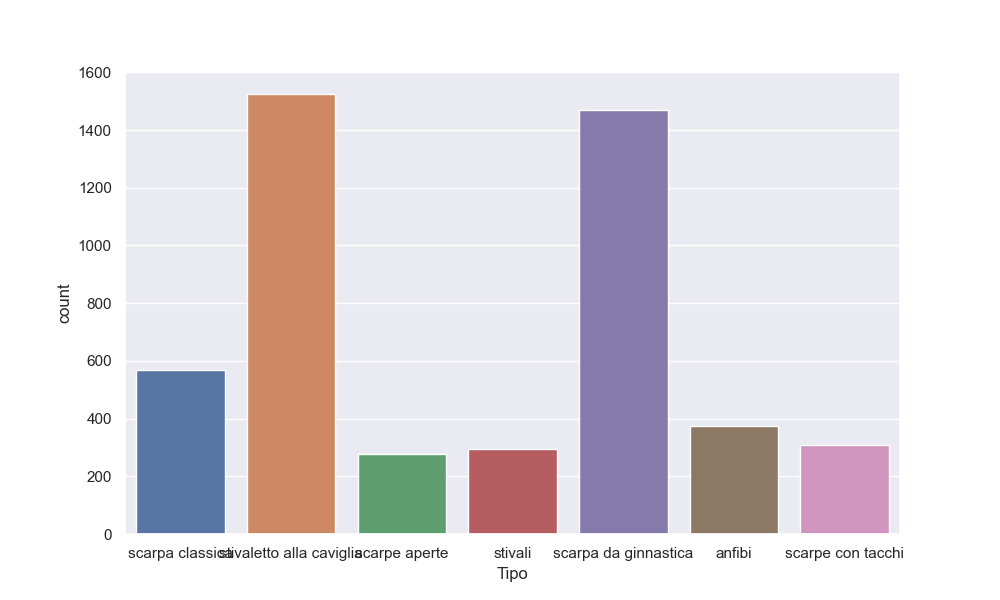
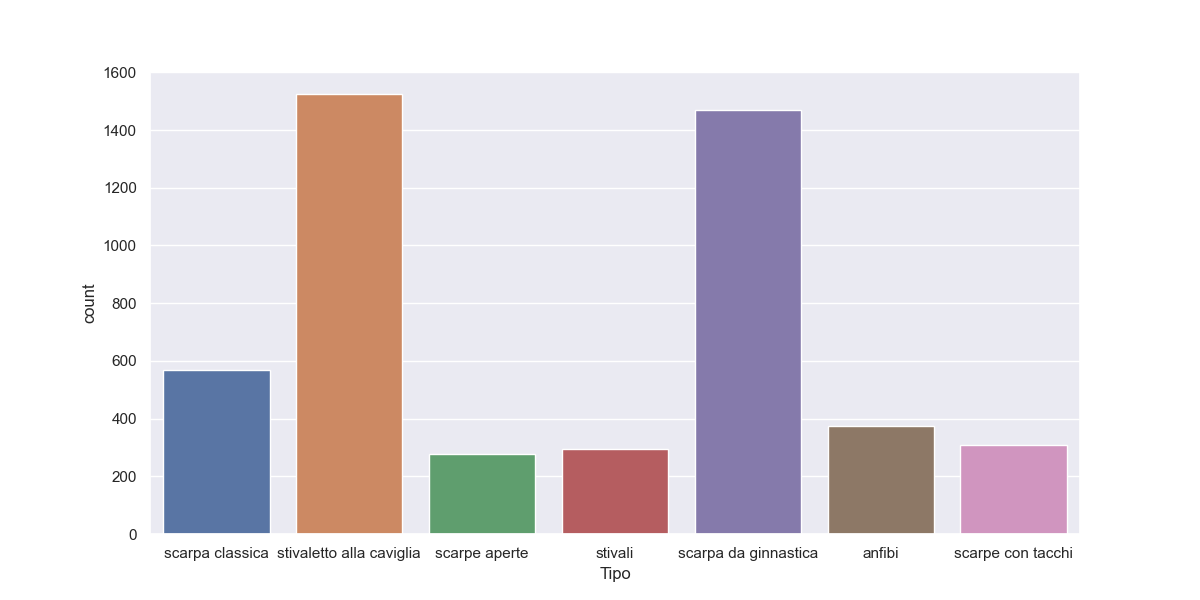
Aggiunto paragrafo premessa e modificato i relativi collegamenti. Aggiornati grafici scarpe

diff --git a/Documents/documentazione.tex b/Documents/documentazione.tex
@@ -71,19 +71,22 @@
                 \item \textbf{P (Performance)}: è la misura di prestazione adottata per valutare l'operato di un agente.
                 Nel caso di WeatherStyle, la misura di prestazione è data dal consigliare in maniera adeguata i vari capi
                 d'abbigliamento.
-                \item \textbf{E (Environment)}: è la descrizione degli elementi che formano l'ambiente. Nel nostro
+                \item \textbf{E (Environment)}: è la descrizione degli elementi che formano l'ambiente.Nel nostro
                 sistema, l'ambiente è costituito dal guardaroba dell'utente e dalle previsioni meteorologiche.
                 \item \textbf{A (Actuators)}: servono all'agente per poter compiere delle azioni. L'agente di WeatherStyle
                 si serve di uno schermo per mostrare agli utenti i capi d'abbigliamento che ritiene più adeguati.
                 \item \textbf{S (Sensors)}: sono i sensori attraverso i quali l'agente riceve gli input dall'esterno.
-                \\ I sensori a sua disposizione sono la tastiera per poter inserire le informazioni meteorologiche e la
-                data della previsione, e infine il contenuto di un file per recuperare il guardaroba di un utente.
+                \\ I sensori a sua disposizione sono una sorgente da cui ottenere informazioni meteorologiche\footnote{Nel driver sviluppato per testare il modello, tale sensore è sostituito dalla tastiera,
+                    è l'utente che deve specificare le condizioni meteo e la data in cui il consiglio viene fornito}
+                    e un database da cui ottenere i capi d'abbigliamento dell'utente\footnote{Il driver realizzato non fa uso del database.
+                Viene utilizzato un File per caricare dei capi d'esempio su cui poter effettuare dei test.
+                Inoltre, è possibile aggiungere altri capi che saranno salvati nella sessione del browser utilizzato per il testing (Una volta chiuso dovranno essere ricaricati).}.
             \end{itemize}
 
 
             \subsection{Caratteristiche dell'ambiente}
                 \begin{itemize}
-                    \item \textbf{Tipo di ambiente:} guardaroba con informazioni meteorologiche.
+                    \item \textbf{Tipo di ambiente:} suggeritore di capi d'abbigliamento adatti al meteo.
                     \item \textbf{Completamente osservabile:} l'agente attraverso i sensori conosce lo stato
                     completo dell'ambiente in ogni momento, ovvero, ha visione completa dei capi d'abbigliamento presenti
                     nel guardaroba dell'utente e delle informazioni meteorologiche.
@@ -96,9 +99,21 @@
                     \item \textbf{Singolo agente:} l'ambiente consente la presenza di un singolo agente.
                 \end{itemize}
                 \bigskip
-                \par \noindent Nei capitoli successivi vedremo due tipi di agenti che agiranno singolarmente ma con uno stesso
-                scopo comune, ovvero vedremo prima un \textbf{agente basato su utilità} in grado di quantificare la desiderabilità
-                degli stati raggiunti, e poi a seguire un \textbf{agente capace di apprendere}.
+                \par \noindent Nei capitoli successivi vengono proposti due tipi di agenti che possono essere una soluzione per il problema illustrato:
+                 un \textbf{agente basato su utilità} in grado di quantificare la desiderabilità
+                degli stati raggiunti e un \textbf{agente capace di apprendere}.
+    \section{Un'importante premessa}
+    \label{sec:premessa}
+    Il problema, nella sua formulazione completa, richiede di fornire all'utente un outfit che sia adatto
+    alle condizioni climatiche.\\
+    Tale formulazione, contiene in sè una serie di sotto-problemi non di poco conto in particolare oltre
+    a valutare che i capi siano adatti alle condizione meteorologiche, bisogna anche considerare quanto si abbinano bene
+    tra loro sotto diversi aspetti come stile, colore ecc\ldots\\
+    In buona sostanza, una formulazione del genere fa esplodere la complessità del problema in quanto considera troppi dettagli.\\
+    Si è deciso quindi di formulare diversamente il problema tralasciando l'aspetto stilistico che viene lasciato all'utente.\\
+    Nello specifico, sono state considerate tre categorie di capi d'abbigliamento (maglie, pantaloni e scarpe) e per ognuna di queste verrà realizzato
+    un agente intelligente in grado di fornire i tre capi migliori rispetto alle condizioni meteo.
+    Nella versione finale dell'applicativo l'utente potrà scegliere un capo per ogni categoria e costruire l'outfit che più gli piace\footnote{Nel driver realizzato, è possibile solo visualizzare i tre capi d'abbigliamento consigliati per ogni categoria}.
 
     \part{Tecniche di risoluzione}
         \chapter{La ricerca locale}
@@ -144,17 +159,16 @@
             \newpage
             \section{Formulazione del problema}
             Il primo quesito da porsi nel momento in cui si ha a che fare con un algoritmo genetico è: \textbf{come vengono
-            codificati gli individui?} Nel nostro caso, l'algoritmo dovrà scegliere solamente tre dai capi che si ritengono
-            più adeguati; per questo motivo, la codifica degli individui consiste in un array di tre interi. Questi valori
-            rappresenteranno la posizione dei capi d'abbigliamento nell'intera lista di maglie, pantaloni e scarpe
-            presenti nel guardaroba\footnote{è bene chiarire che gli agenti saranno tre e ognuno lavorerà su una singola
-            istanza del problema, ossia maglie, pantaloni e scarpe, poiché risolvere il tutto con un solo agente sarebbe
-            risultato difficile: ci avrebbe portato a considerare altri aspetti, come la combinazione
-            cromatica che non rientra tra i nostri obiettivi.}.
+            codificati gli individui?} Nel nostro caso, come illustrato alla sezione \ref{sec:premessa}, l'algoritmo dovrà
+            scegliere solamente tre dai capi che si ritengono più adeguati;
+            per questo motivo, la codifica degli individui consiste in un array di tre interi.
+            Questi valori rappresenteranno la posizione dei capi d'abbigliamento nell'intera lista di maglie, pantaloni
+            e scarpe presenti nel guardaroba
             \\
             \par \noindent Dopo aver definito come gli individui devono essere codificati, si passa ad analizzare i \textbf{vincoli} a
-            cui essi sono sottoposti. In questo caso, l'unico vincolo è che, all'interno dell'array, non si ripeta un intero
-            più di una volta, cioè che i capi siano tutti diversi tra loro.
+            cui essi sono sottoposti.
+            In questo caso, l'unico vincolo è che, all'interno dell'array, non si ripeta un intero più di una volta,
+            cioè che i capi siano tutti diversi tra loro.
             \\
             \par \noindent La prima parte di un GA consiste nell'inizializzazione di una popolazione. Inizialmente la soluzione
             verteva verso un'inizializzazione casuale ma, dopo aver constatato che la popolazione non rispettava il vincolo richiesto,
@@ -182,7 +196,9 @@
                 pantaloni, che per scarpe, viene dato il massimo del punteggio se la stagione in cui viene richiesto l'intervento dell'agente coincide
                 con quella indicata per quel determinato capo d'abbigliamento.
                 \item \textbf{Tipo di scarpe:} in base alle previsioni meteo e al tipo di scarpe, viene assegnato un determinato punteggio.
-                Ad esempio, in caso di neve, vengono preferiti gli stivali alle classiche scarpe di ginnastica.
+                Ad esempio, in caso di neve, vengono preferiti gli stivali alle classiche scarpe di ginnastica.\footnote{Tale valutazione,
+                    non viene effettuata in caso in cui la temperatura sia inferiore ai 20 gradi in quanto e il meteo è soleggiato,
+                    in quanto, a seguito di test empirici, si è visto che visto che tale condizione portava l'agente ad avere un comportamento errato: consigliava scarpe estive anche se non erano adatte}
                 \item \textbf{Antisivolo e/o impermeabile:} per le scarpe viene incrementato il
                 punteggio secondo le previsioni, se queste dichiarano pioggia, assegnando punti ``bonus'' se la
                 scarpa è antiscivolo e/o impermeabile.
@@ -210,7 +226,7 @@
             ad ogni tipologia di capo d'abbigliamento, che siano essi scarpe, pantaloni o maglie. Il nostro obbiettivo,
             chiaramente, è quello di massimizzare questa funzione:
             \[
-                \frac{\sum_{n=1}^{3} u_{n}}{3}
+                f((x_{1},x_{2},x_{3}))=\frac{\sum_{n=1}^{3} u(x_{n})}{3}
             \]
             \\
             \par \noindent Per quel che riguarda la scelta degli \textbf{operatori genetici} si è optato per:
@@ -219,13 +235,13 @@
                 \item \textbf{MultiPointCrossover}
                 \item \textbf{GaussianMutator}
             \end{itemize}
-            Si rimanda alla sezione 2.3.4 per ulteriori dettagli su questi operatori.
+            Si rimanda alla sezione \ref{subsec:op_gen} per ulteriori dettagli su questi operatori.
 
             \newpage
             \section{Implementazione}
             Per l'implementazione della soluzione basata su algoritmo genetico è stato utilizzato il framework
             \textbf{Jenetics} \cite{1}. In questa sezione, tratteremo l'istanza generale per la costruzione dell'algoritmo
-            genetico. Come già discusso nella sezione 2.2, gli agenti saranno tre, e ognuno lavorerà su una singola istanza
+            genetico. Come già discusso nella sezione \ref{sec:premessa}, gli agenti saranno tre, e ognuno lavorerà su una singola istanza
             del problema, ovvero maglie, pantaloni e scarpe, differenziandosi per i calcoli effettuati dalla funzione di
             fitness.
                 \subsection{Codifica degli individui}
@@ -270,7 +286,7 @@
                 corrisponderanno alle posizioni dei capi d'abbigliamento in una lista, calcoleremo il punteggio per ognuno,
                 faremo una media e restituiremo il risultato.
 
-                \subsection{Operatori genetici}
+                \subsection{Operatori genetici}\label{subsec:op_gen}
                 Per la risoluzione del problema sono stati scelti i seguenti operatori genetici:
                 \begin{itemize}
                     \item \textbf{RouletteWheelSelector:} operatore di selezione; gli individui ricevono una probabilità
@@ -314,8 +330,8 @@
             \par \noindent Uno dei principali problemi affrontati è stato sulla generazione della \textbf{popolazione iniziale}.
             In genere, la prima popolazione viene generata in maniera totalmente casuale, quindi non è detto che
             tali individui rispettino il vincolo imposto (i tre elementi devono essere diversi).\\
-            Il problema è stato risolto andando ad impostare una generazione pseudo casuale che permette
-            di avere anche nella prima generazione degli elementi ammissibili e, di conseguenza,
+            Come illustrato nei paragrafi precedenti, il problema è stato risolto andando ad impostare una generazione
+            pseudo casuale che permette di avere anche nella prima generazione degli elementi ammissibili e, di conseguenza,
             la ricerca viene guidata verso soluzioni ammissibili e migliori riducendo il carico computazionale.\\
             A valle di test empirici, possiamo dire che la soluzione riesce quasi sempre a restituire un risultato ottimale.
             In particolare, su 10 test effettuati ben x volte il risultato è da considerare ottimo.
@@ -547,9 +563,10 @@
                     \item \emph{Maximum Temperature}: temperatura massima;
                     \item \emph{Minimum Temperature}: temperatura minima;
                 \end{itemize}
-                Successivamente, vedendo che le feature \emph{Minimum Temperature} e \emph{Minimum Temperature} non avevano un
-                forte potere predittivo, si è deciso di sostituirli con \emph{Minimum Apparent Temperature}
-                e \emph{Minimum Apparent Temperature} che indica la temperatura percepita, ovvero la temperatura influenzata dal vento e dall'umidità
+                Successivamente, vedendo che le feature \emph{Maximum Temperature} e \emph{Minimum Temperature} non avevano un
+                forte potere predittivo, si è deciso di sostituirli con \emph{Maximum Apparent Temperature}
+                e \emph{Minimum Apparent Temperature} che indica la temperatura percepita massima e minima,
+                ovvero la temperatura influenzata dal vento e dall'umidità
                 \\
                 \par \noindent Inoltre, per ottenere un quantità di dati che comprenda più osservazioni possibili abbiamo scelto di scaricare i dati di
                 14 città italiane distinte:
@@ -613,7 +630,8 @@
                     facilmente riconducibili all'elenco di materiali di partenza.
                     \par \noindent Inoltre, si è trasformata la colonna dei \textbf{colori} in modo che indicasse se la maglia o il pantalone
                     fosse chiaro, scuro o colorato.
-                    Questo perché il nostro obbiettivo \textbf{non} è quello di fornire un punteggio ad un determinato capo andando ad
+                    Questo perché, come spiegato nella sezione \ref{sec:premessa} il nostro obbiettivo
+                    \item \textbf{non} è quello di fornire un punteggio ad un determinato capo andando ad
                     analizzare le varie combinazioni di colori che si possono ottenere.
                     \par \noindent Come ultima colonna, ossia la \textbf{stagione}, abbiamo escluso capi con più di 3 stagioni
                     e includere le \textit{singole stagioni}, le \textit{doppie stagioni}, e quelle indicate come \textit{all}.
@@ -630,9 +648,9 @@
                     Le feature considerate più rilevanti (sia per le maglie che per i pantaloni) sono:
                     \begin{itemize}
                         \item \textbf{Materiale:} la feature è discriminante, in quanto ci consente di capire se un determinato materiale è adatto per
-                        una certa temperatura o meno. Ad esempio, il lino è un tessuto tipicamente estivo, di conseguenza non è indossabile nella
+                        una certa temperatura o meno. Ad esempio, il lino è un tessuto tipicamente estivo, di conseguenza non è molto adatto alla
                         stagione invernale.
-                        \item \textbf{Colore:} anche in questo caso, la caratteristica è determinante perché, a parità di meteo soleggiato, bisogna preferire
+                        \item \textbf{Colore:} anche in questo caso, la caratteristica è determinante perché, in caso di meteo soleggiato, bisogna preferire
                         un capo di colore chiaro rispetto a uno di colore scuro.
                         \item \textbf{Lunghezza:} la lunghezza dei pantaloni oppure la lunghezza della manica per le maglie sono rilevanti ai fini della
                         risoluzione del problema; infatti, una manica corta sicuramente sarà da preferire ad una manica lunga se si è in estate.
@@ -731,8 +749,8 @@
                 Dopo aver costruito il dataset in maniera adeguata per maglie, pantaloni e scarpe, si fonde ognuno di
                 questi con il dataset contenente i dati meteo tramite la funzione Phyton \textit{concat()}. Successivamente,
                 si eliminano anche i duplicati tramite la funzione \textit{drop\_duplicates()} e viene esportato ogni insieme
-                di dati in formato CSV, pronto per essere dato in pasto all'algoritmo di addestramento, con il quale realizzeremo
-                tre machine learner, in cui ognuno lavorerà singolarmente su una singola istanza del problema, ovvero maglie, pantaloni
+                di dati in formato CSV, pronto per essere utilizzato per l'addestramento dei tre machine learner,
+                i quali lavoreranno ognuno su una singola istanza del problema, ovvero maglie, pantaloni
                 e scarpe.\\
                 \par \noindent Prima, però, di passare all'addestramento,
                 è necessario che venga inserita una colonna ad ogni dataset per poter assegnare il \textbf{valore della variabile dipendente}.
